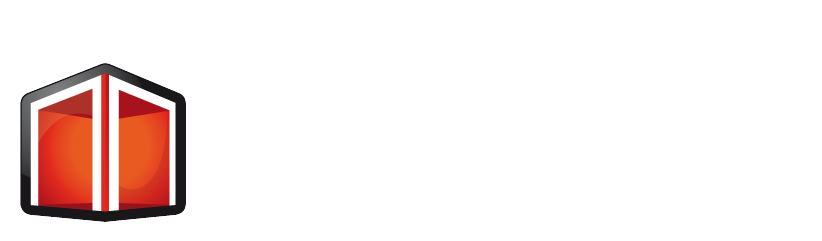
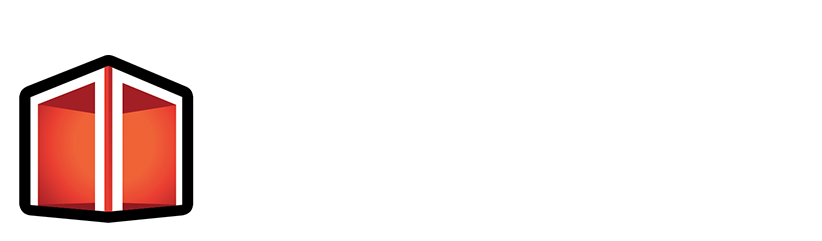
Updating image + adding ChildFocusRun Section

Changed region(s): [[0.0, 0.2324, 0.2433, 0.9295]]

diff --git a/js/tweets.js b/js/tweets.js
@@ -1,1 +1,114 @@
-let history=[],order=[38,38,40,40,37,39,37,39,66,65,13];function emptyArray(e=[]){for(let t=0;t<e.length;t++)e[t]&&e[t].remove()}function getRandomInt(e,t){return Math.floor(Math.random()*(t-e))+e}function createRocket(e){let t=document.createElement("img");return t.style.animationDelay=getRandomInt(0,2),t.classList.add("wave"),t.src="img/manorocket.gif",t.style.position="absolute",t.style.top=window.scrollY+getRandomInt(0,window.innerHeight)+"px",t.style.left="0px",t.dataset.factor=e,setTimeout(()=>{t.remove()},1.2*e*1e3),t}document.addEventListener("keydown",e=>{if(history.push(e.keyCode),history.length>order.length&&history.shift(),JSON.stringify(history)==JSON.stringify(order)){let e=document.querySelector("#space-launcher"),t=[];if(0==e.childElementCount){for(let o=0;o<10;o++){let o=createRocket(getRandomInt(8,10));e.appendChild(o),t.push(o)}let o=setInterval(()=>{t.forEach(e=>{e.style.left=parseFloat(e.style.left)+1/e.dataset.factor+"%",parseFloat(e.style.left)>=100&&e.remove()}),0==e.childElementCount&&clearInterval(o)},10)}}});
+let group = document.querySelector(".tweet-feed");
+let datas = [];
+let tweetarr = [];
+let index = 0;
+
+let currentId = 0;
+setInterval(() => {
+  request('GET', 'https://manocf-server.herokuapp.com/hashtag', { currentId, tag : 'arethafranklin' })
+    .then(res => {
+      let data = JSON.parse(res);
+      let tweets = data.statuses;
+
+      tweets.forEach(tweet => {
+        if (!tweet.retweeted_status){
+          let exists = false;
+          datas.forEach(t => {
+            if (t.id == tweet.id){
+              exists = true;
+            }
+          })
+          if (!exists){
+            datas.push(tweet);
+          }
+        }
+      });
+    })
+    .catch(console.error);
+
+    if (group.childElementCount == 0){
+      for(let i = 0; i < 5; i++){
+        addingBlock();
+      };
+    } else {
+      addingBlock();
+    }
+
+
+}, 2500);
+
+function addingBlock(){
+  if (group.childElementCount > 0 && document.querySelector('.tweet-loader')){
+    document.querySelector('.tweet-loader').remove();
+    document.querySelector('.tweetarrow').classList.remove('hidden');
+  }
+  if (group.childElementCount >= 5 && group.children[0]){
+    group.removeChild(group.children[0]);
+  }
+  datas.shift();
+  group.appendChild(createBox(datas[0]));
+  if (datas[0]){
+    currentId = datas[0].id;
+  }
+}
+
+function request(method, url, params = {}){
+  return new Promise((resolve, reject) => {
+    let xhr = new XMLHttpRequest();
+    
+    xhr.open(method, url + '?' + serialize(params), true);
+
+    xhr.onreadystatechange = () => {
+      if(xhr.readyState === 4 && xhr.status === 200) {
+        resolve(xhr.responseText);
+      }
+    };
+    xhr.onerror = () => {
+      reject();
+    }
+    xhr.send();
+  });
+}
+
+function serialize(obj) {
+  var str = [];
+  for (var p in obj)
+    if (obj.hasOwnProperty(p)) {
+      str.push(encodeURIComponent(p) + "=" + encodeURIComponent(obj[p]));
+    }
+  return str.join("&");
+}
+
+function createBox(tweet){
+  let item = document.createElement('div'),
+  imageDiv = document.createElement('div'),
+  img = document.createElement('img'),
+  content = document.createElement('div'),
+  header = document.createElement('h2'),
+  textDiv = document.createElement('div'),
+  text = document.createElement('p');
+
+  item.classList.add('item');
+  item.style.backgroundColor = "#ffffff40";
+  item.style.borderRadius = "4px";
+  item.style.padding = "2%";
+  item.appendChild(imageDiv);
+  item.appendChild(content);
+
+  imageDiv.classList.add('ui', 'tiny', 'image');
+  imageDiv.appendChild(img);
+  img.src = (tweet.user.profile_image_url ? tweet.user.profile_image_url : 'img/child_focus.png');
+
+  content.classList.add('content');
+  content.appendChild(header);
+  content.appendChild(textDiv);
+
+  header.classList.add('header');
+  header.innerHTML = "@" + (tweet.user.screen_name ? tweet.user.screen_name :  null);
+
+  textDiv.classList.add('description');
+  textDiv.appendChild(text);
+
+  text.innerHTML = tweet.full_text;
+  return item;
+}

diff --git a/index.html b/index.html
@@ -34,11 +34,15 @@
   <!-- HEADER -->
   <div class="row" style="padding: 10% 0">
     <div class="column">
-      <img class="ui fluid image" src="img/logo.png" style="padding:5% 0">
+      <img class="ui fluid image" src="img/logo.png" style="padding:2% 0">
       <h1 class="ui center aligned header" style="font-family: 'Overpass', sans-serif;letter-spacing:0.2em;background-color:rgba(0, 0, 0, 0.5); padding:0.5%">
           STREAM DE CHARITÉ / DIMANCHE 2 SEPTEMBRE 2018
         </h1>
-        <img class="ui small image floated right" src="img/horaire.png" />
+        <div class="ui grid">
+          <div class="sixteen wide column right floated">
+              <img class="ui medium image right floated" src="img/horaire.png" />
+          </div>
+        </div>
     </div>
   </div>
   <!-- STREAM -->
@@ -54,11 +58,15 @@
     <h1>Quel est le but de cet event ?</h1>
     <div>
         <p>
-            A l'occasion de la <a target="_blank" href="https://www.childfocusrun.be/">Child Focus Run</a> qui se déroulera le 2 Septembre 2018 à Mons,
+            A l'occasion de la <a target="_blank" href="https://www.childfocusrun.be">Child Focus Run</a> qui se déroulera le 2 Septembre 2018 à Mons,
             nous avons décidé de lancer un événement afin de récolter un maximum de dons pour aider à financer ce projet. Cette course caritative est
             organisé par la fondation <a target="_blank" href="http://www.childfocus.be">Child Focus</a>, partenaire de cet événement dont 100 % des dons reçus seront renversés 
             à l'association.
         </p>
+        <a  target="_blank" href="https://www.childfocusrun.be" class="ui centered fluid image">
+          <img style="background: linear-gradient(to right, #ffffff 50%,#007ebb 50%);" src="img/ChildFocusRun.png">
+        </a>
+        <img src="img/goodCause.png" class="ui medium left floated image"/>
     </div>
   </div>
   <!-- CHARITY / DONATION -->
@@ -92,9 +100,10 @@
   </div>
   <!-- TWEETS -->
   <div class="row centered" style="padding: 2%;">
-    <h1>Tweetez avec le hashtag <a href="https://twitter.com/intent/tweet?text=%23ManoChildFocus">#ManoChildFocus</a></h1>
+    <h1>Tweetez avec le hashtag <a target="_blank" href="https://twitter.com/intent/tweet?text=%23ManoChildFocusRun">#ManoChildFocusRun</a></h1>
     <div class="sixteen wide column" style="min-height:700px;padding: 2%">
       <div class="tweet-loader ui large active centered inline loader"></div>
+      <img src="img/yourTweet.png" class="tweetarrow hidden ui medium image right floated"/>
       <div class="tweet-feed ui link items">
       </div>
     </div>
@@ -150,7 +159,8 @@
         width: "100%",
         height: "100%",
         channel: "manonolita",
-        layout: "video"
+        layout: "video",
+        autoplay : false
       });
 
   </script>

diff --git a/css/style.css b/css/style.css
@@ -4,6 +4,11 @@ img {
     -moz-user-drag: none;
     -o-user-drag: none;
     user-drag: none;
+    image-rendering: -moz-crisp-edges !important; /* Firefox */
+    image-rendering: -o-crisp-edges !important; /* Opera */
+    image-rendering: -webkit-optimize-contrast !important; /* Webkit (non-standard naming) */
+    image-rendering: crisp-edges !important;
+    -ms-interpolation-mode: nearest-neighbor !important;
   }
 
 span, p,h1,h2 {
